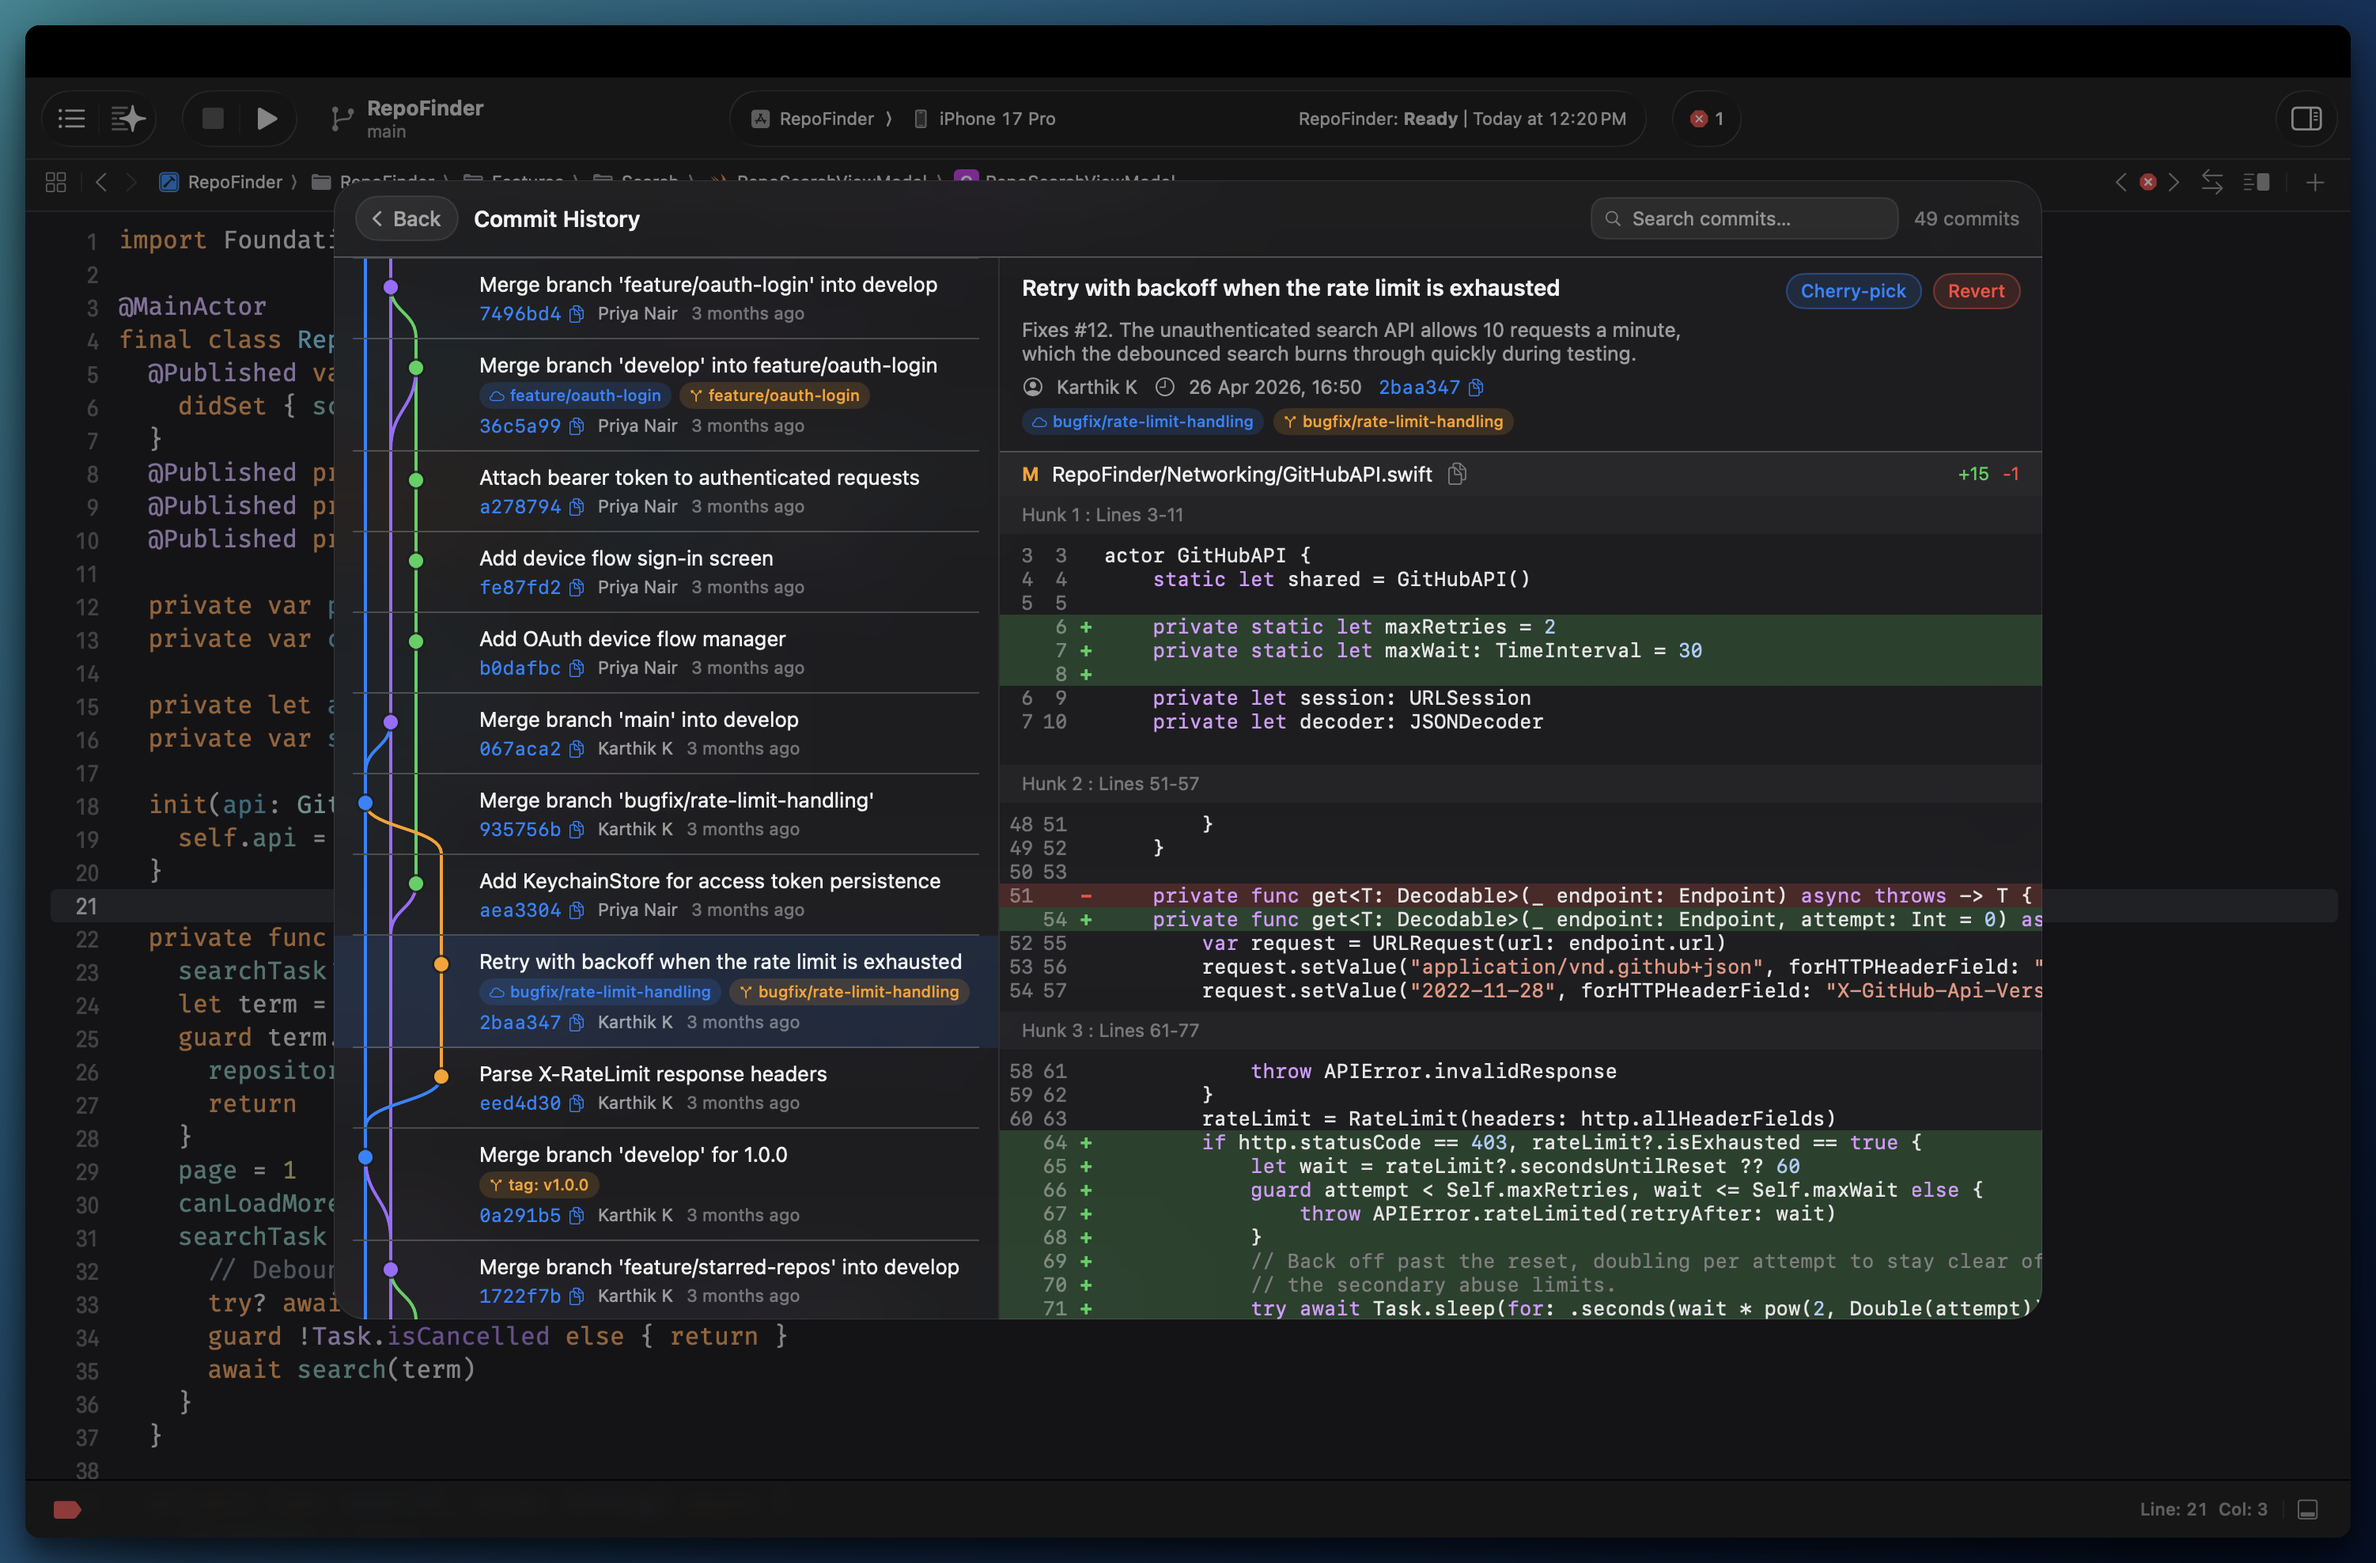
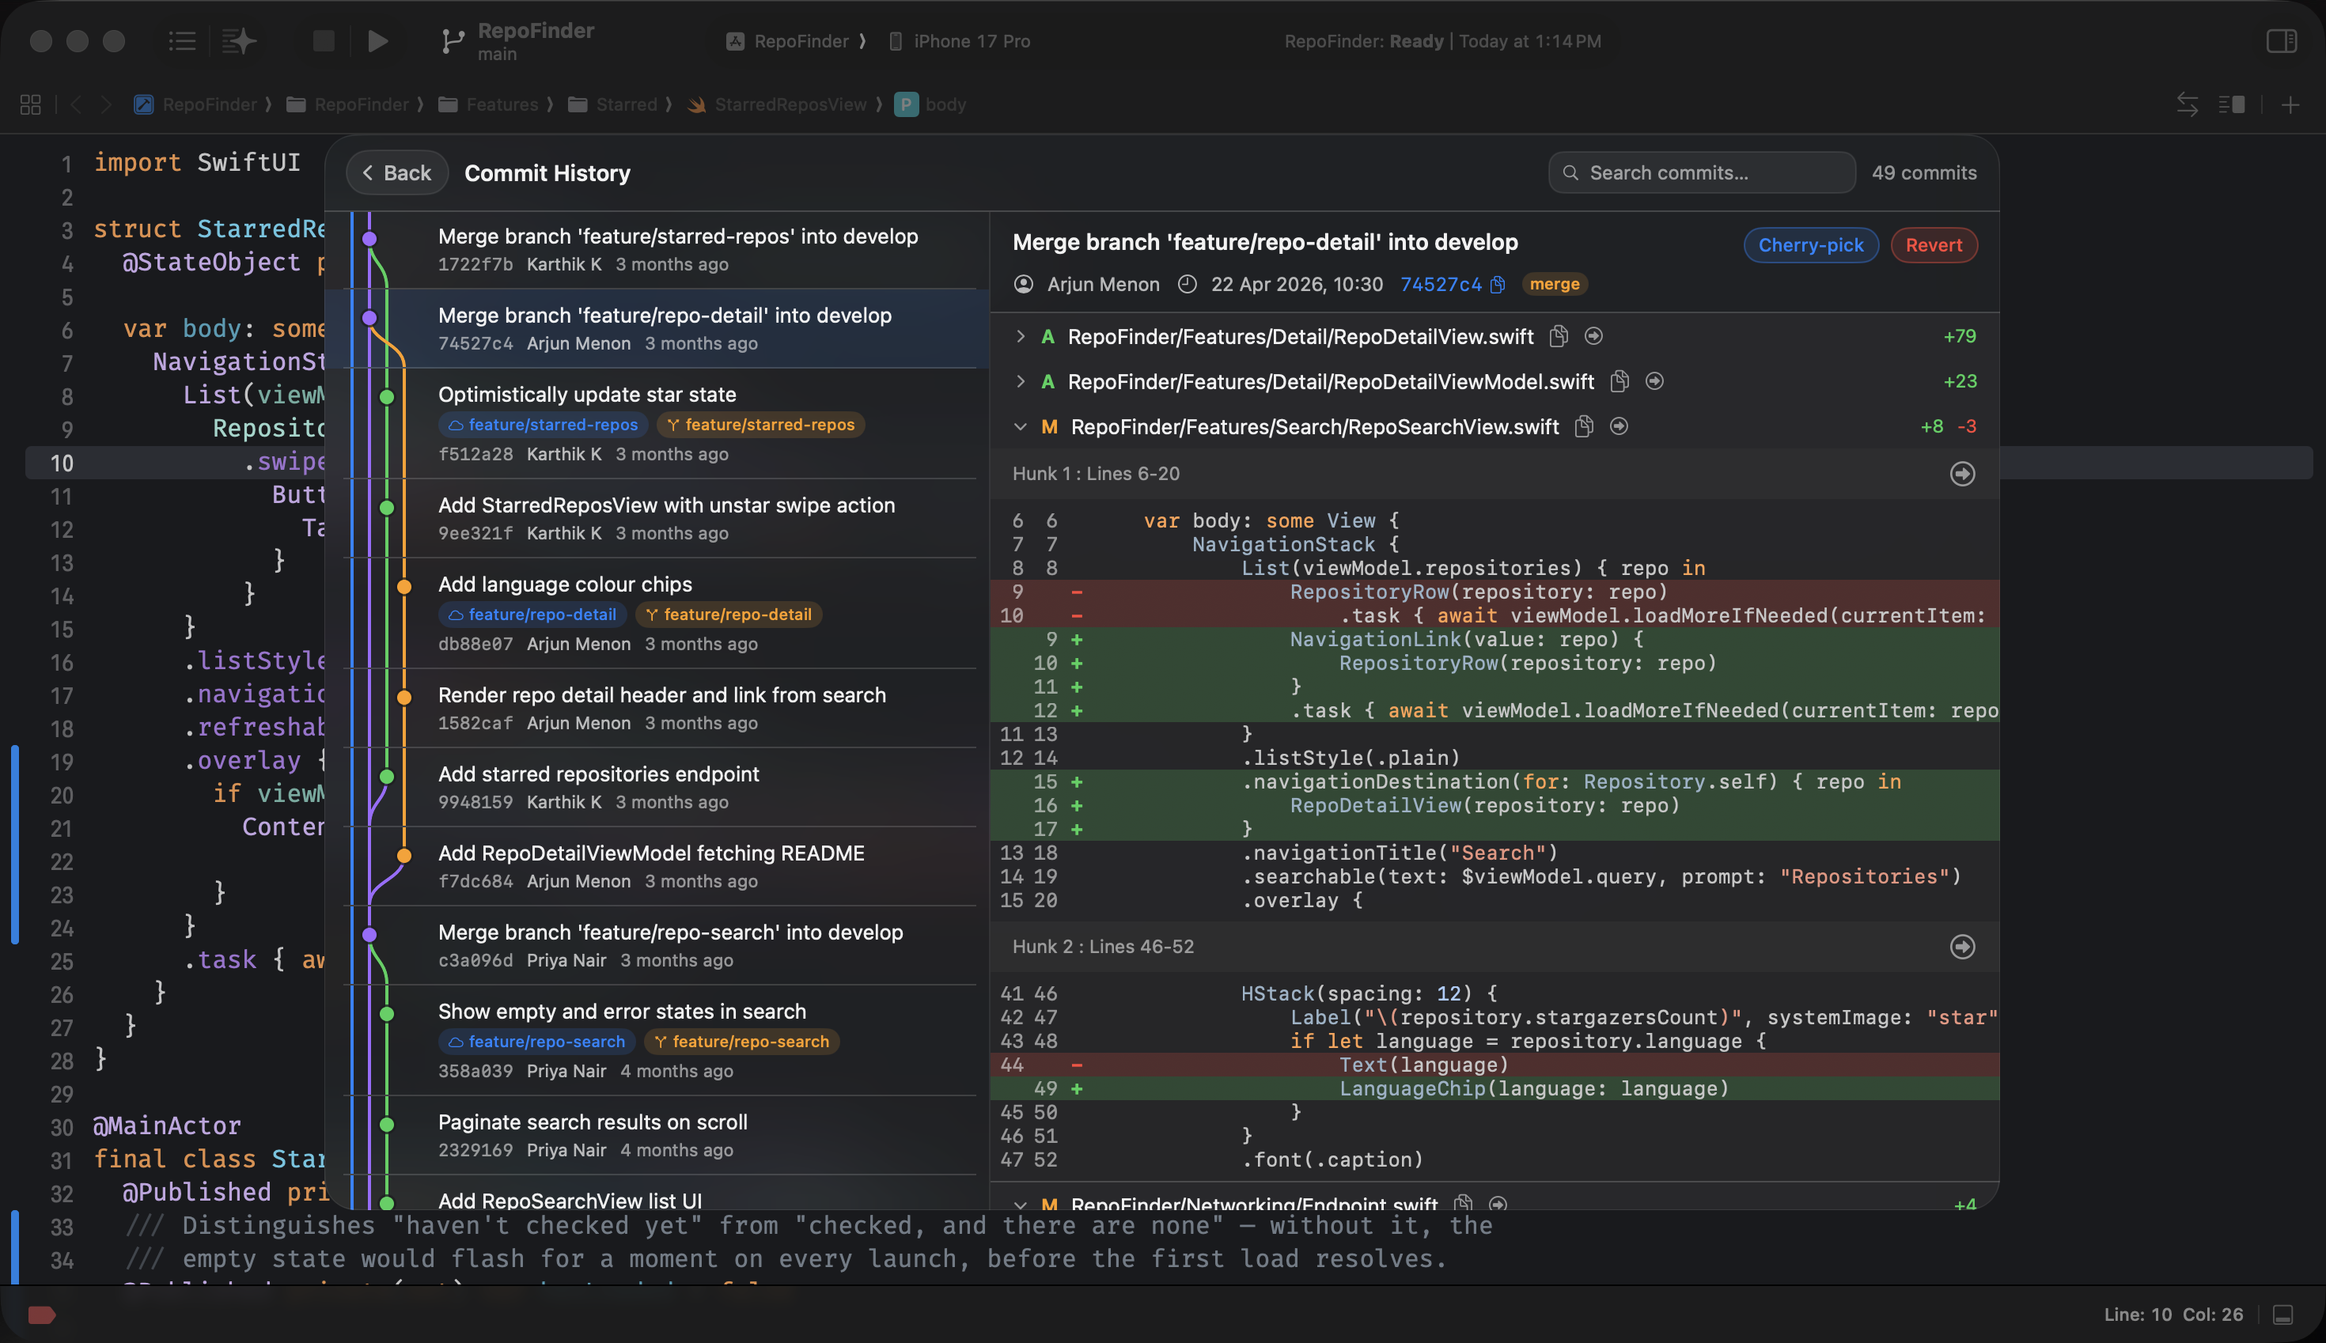
Update screenshots

diff --git a/README.md b/README.md
@@ -6,31 +6,47 @@
 
 <div align="center">
 
-A native macOS app that gives Xcode the Git features it always needed.
+# Supercharge Git workflow in Xcode
 
-[**⬇ Download for Free**](https://gitwyn.com/download) · [**gitwyn.com**](https://gitwyn.com)
+A native macOS Git client for Xcode — the Git overlay that opens right beside your code,
+with the Git tools Xcode always needed.
 
-Free to use · requires macOS 26 or later
+<br />
+
+[![Download for Free](https://img.shields.io/badge/⬇%20%20Download%20for%20Free-7C6CFF?style=for-the-badge&labelColor=7C6CFF&color=4F8CFF)](https://gitwyn.com/download)
+
+<br />
+
+![Platform](https://img.shields.io/badge/macOS-26%2B-1c1c22?style=flat-square)
+![Native](https://img.shields.io/badge/SwiftUI-native-1c1c22?style=flat-square)
+![Price](https://img.shields.io/badge/price-free-43D17A?style=flat-square)
+
+**[gitwyn.com](https://gitwyn.com)** · Free to use · requires macOS 26 or later
 
 </div>
 
 ---
 
-## Work with git without leaving Xcode
+## Work with Git without leaving Xcode
 
-Press <kbd>⌘</kbd> <kbd>⇧</kbd> <kbd>E</kbd> in any Xcode window to get started. Gitwyn opens right beside the code you're writing — no context switch, no separate app to manage.
+Press <kbd>⌘</kbd> <kbd>⇧</kbd> <kbd>E</kbd> in any Xcode window to get started.
+
+Gitwyn automatically detects the Git repository, files and changes in your active Xcode
+project — always in context, so you never have to leave Xcode or alt-tab to a separate
+Git client.
 
 ---
 
 ## ✨ Features
 
-*  **100% Native macOS App** - Built specifically for macOS and Xcode, ensuring high performance, low memory usage, and native UI feel.
-* 🛠 **Seamless Xcode Integration** - Triggered instantly with a hotkey, opening directly on top of your active Xcode project. Gitwyn automatically detects the current project open in Xcode and uses it.
-* 🔍 **Granular Staging** - Stage or discard individual files, single hunks, or specific lines with a clean side-by-side view.
-* 🌳 **Infinite Commit Graph** - Browse your entire project history with infinite scroll, complete with authors, branches, and commit messages.
-* ⏪ **Advanced Git Actions** - Branch, reset, cherry-pick, or revert commits straight from the graphical interface.
-* 📦 **Smart Stashing** - Name your stashes and see exactly what’s inside (files, hunks, add/delete counts) before popping or applying.
-* 🔒 **Privacy First** - Everything runs locally on your machine. Your source code never leaves your Mac.
+* **100% Native macOS App** — Built specifically for macOS and Xcode, ensuring high performance, low memory usage, and native UI feel.
+* 🛠 **Seamless Xcode Integration** — Triggered instantly with a hotkey, opening directly on top of your active Xcode project. Gitwyn automatically detects the current project open in Xcode and uses it.
+* 🔍 **Granular Staging** — Stage or discard individual files, single hunks, or specific lines with a clean side-by-side view.
+* 🌳 **Infinite Commit Graph** — Browse your entire project history with infinite scroll, complete with authors, branches, and commit messages.
+* 🔀 **Instant Checkout** — Search and check out any branch or tag from a single command palette, without touching the terminal.
+* ⏪ **Advanced Git Actions** — Branch, reset, cherry-pick, or revert commits straight from the graphical interface.
+* 📦 **Smart Stashing** — Name your stashes and see exactly what's inside (files, hunks, add/delete counts) before popping or applying.
+* 🔒 **Privacy First** — Everything runs locally on your machine. Your source code never leaves your Mac.
 
 ---
 
@@ -40,11 +56,17 @@ Unstaged and staged, split cleanly side by side. Stage or discard a single hunk,
 
 <img src="screenshots/screenshot-staging.png" alt="Gitwyn staging view" width="100%" />
 
-### Commit history
+### Full commit history with graph
 
 Browse the full commit graph with infinite scroll — complete messages, authors and branches, with a per-commit diff for every change. Search by message, author or hash, then branch, reset, cherry-pick or revert straight from the graph.
 
 <img src="screenshots/screenshot-commits.png" alt="Gitwyn commit graph" width="100%" />
+
+### Switch branches without breaking flow
+
+Search and check out any branch or tag from a single command palette — no terminal, no dropdown hunting in Xcode's source control menu. Just start typing and jump.
+
+<img src="screenshots/screenshot-checkout.png" alt="Gitwyn checkout panel searching branches and tags" width="100%" />
 
 ### Every stash, named and waiting
 
@@ -52,9 +74,17 @@ Shelve work-in-progress with a real name and see exactly what's inside — files
 
 <img src="screenshots/screenshot-stash.png" alt="Gitwyn stash history" width="100%" />
 
+---
+
+<div align="center">
+
 ## Download
 
-**[Download the latest release](https://gitwyn.com/download)**
+[![Download for Free](https://img.shields.io/badge/⬇%20%20Download%20for%20Free-7C6CFF?style=for-the-badge&labelColor=7C6CFF&color=4F8CFF)](https://gitwyn.com/download)
+
+Free to use · requires macOS 26 or later
+
+</div>
 
 ---
 
